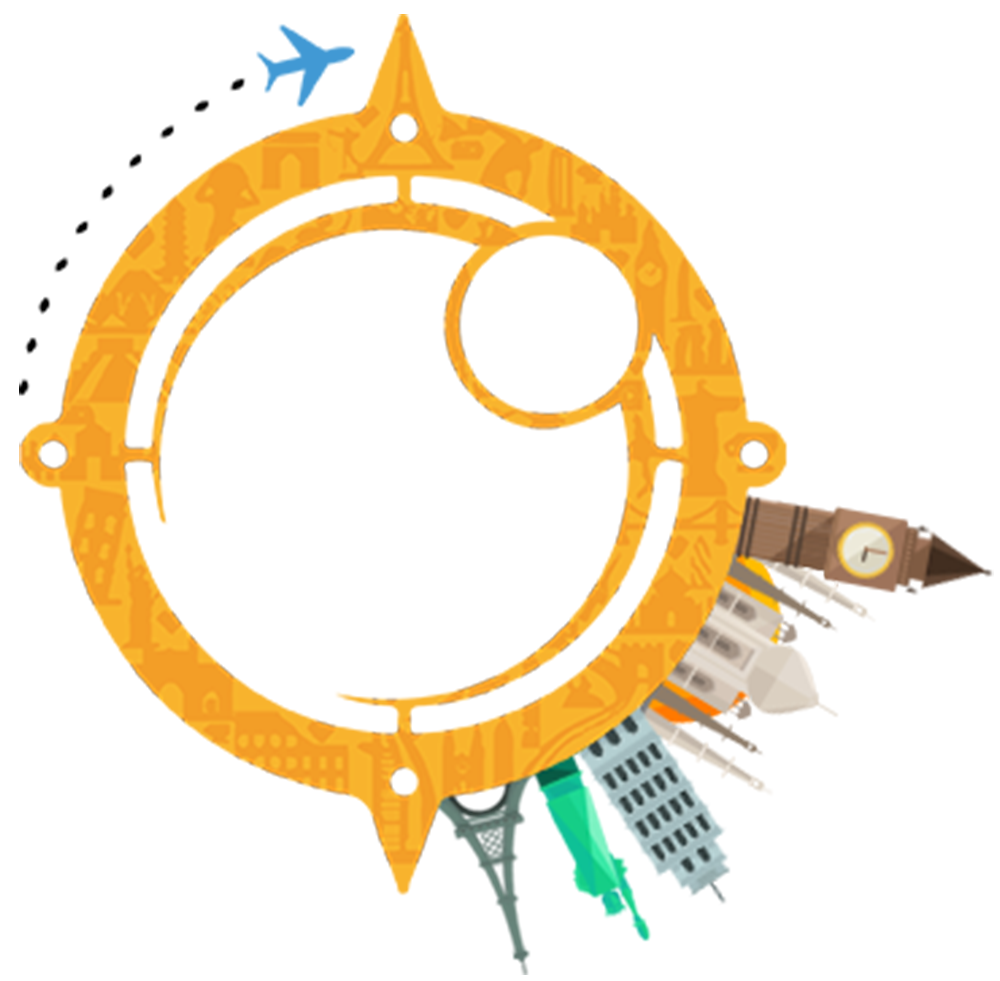
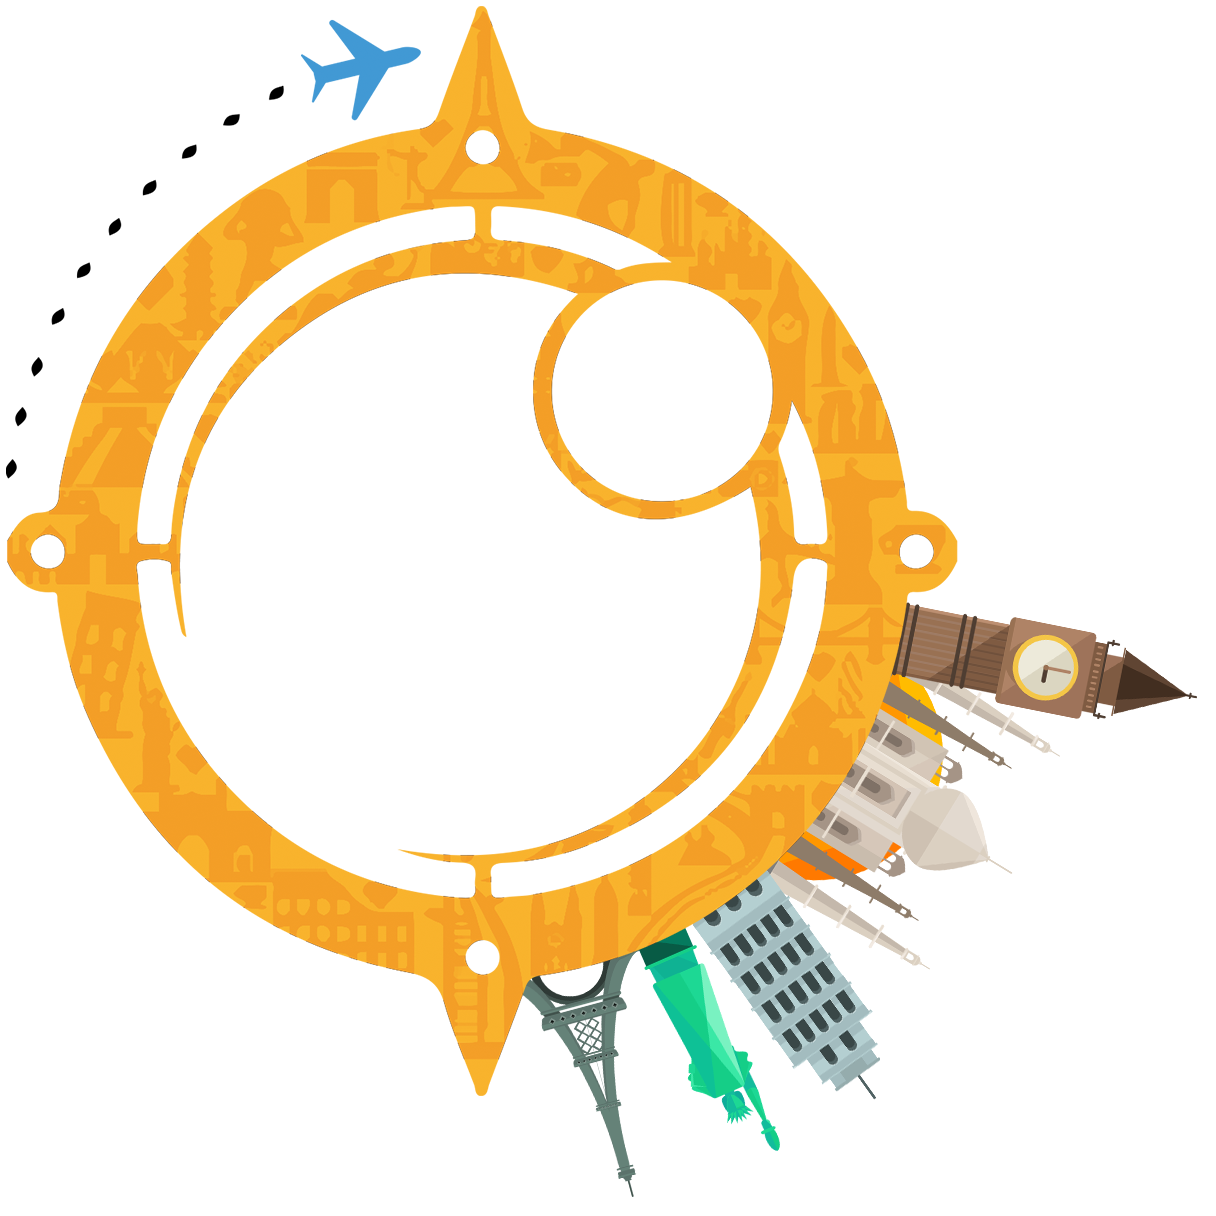
Changed about-modal.png

diff --git a/static/css/style.css b/static/css/style.css
@@ -12,6 +12,19 @@
 	background:url('../img/loader.gif') center center no-repeat #fff;
 }
 
+
+	.about-photo{
+		position: fixed;
+		top: 0;
+		height: 100vh;
+		width: auto;
+		transform: translate(-25%,0);
+	}
+	.about-photo img{
+		height: 100vh;
+		width: auto;
+	}
+
 .top {
 	position: fixed;
 	top: 10px;
@@ -122,13 +135,6 @@ ul > li {
 		bottom: 30vh;
 		right: 20px;
 	}
-
-	/*.about-photo{
-		display: none;
-	}
-	.about-photo img{
-		display: none;
-	}*/
 } 
 
 @media (min-width:480px) {
@@ -208,15 +214,6 @@ ul > li {
 		bottom: 43vh;
 		right: 20px;
 	}
-
-	.about-photo{
-		display: none;
-	}
-
-	.about-photo img{
-		display: none;
-	}
-
 } 
 
 @media (min-width:650px) {
@@ -295,14 +292,6 @@ ul > li {
 		position: fixed;
 		bottom: 35vh;
 		right: 60px;
-	}
-
-	.about-photo{
-		display: none;
-	}
-	
-	.about-photo img{
-		display: none;
 	}
 } 
 
@@ -383,18 +372,6 @@ ul > li {
 		bottom: 40vh;
 		right: 60px;
 	}
-
-	.about-photo{
-		position: fixed;
-		top: 0;
-		height: 100vh;
-		width: auto;
-		transform: translate(-35%,0);
-	}
-	.about-photo img{
-		height: 100vh;
-		width: auto;
-	}
 } 
 
 @media (min-width:1200px) {
@@ -474,18 +451,6 @@ ul > li {
 		position: fixed;
 		bottom: 30vh;
 		right: 100px;
-	}
-
-	.about-photo{
-		position: fixed;
-		top: 0;
-		height: 100vh;
-		width: auto;
-		transform: translate(-35%,0);
-	}
-	.about-photo img{
-		height: 100vh;
-		width: auto;
 	}
 }
 
